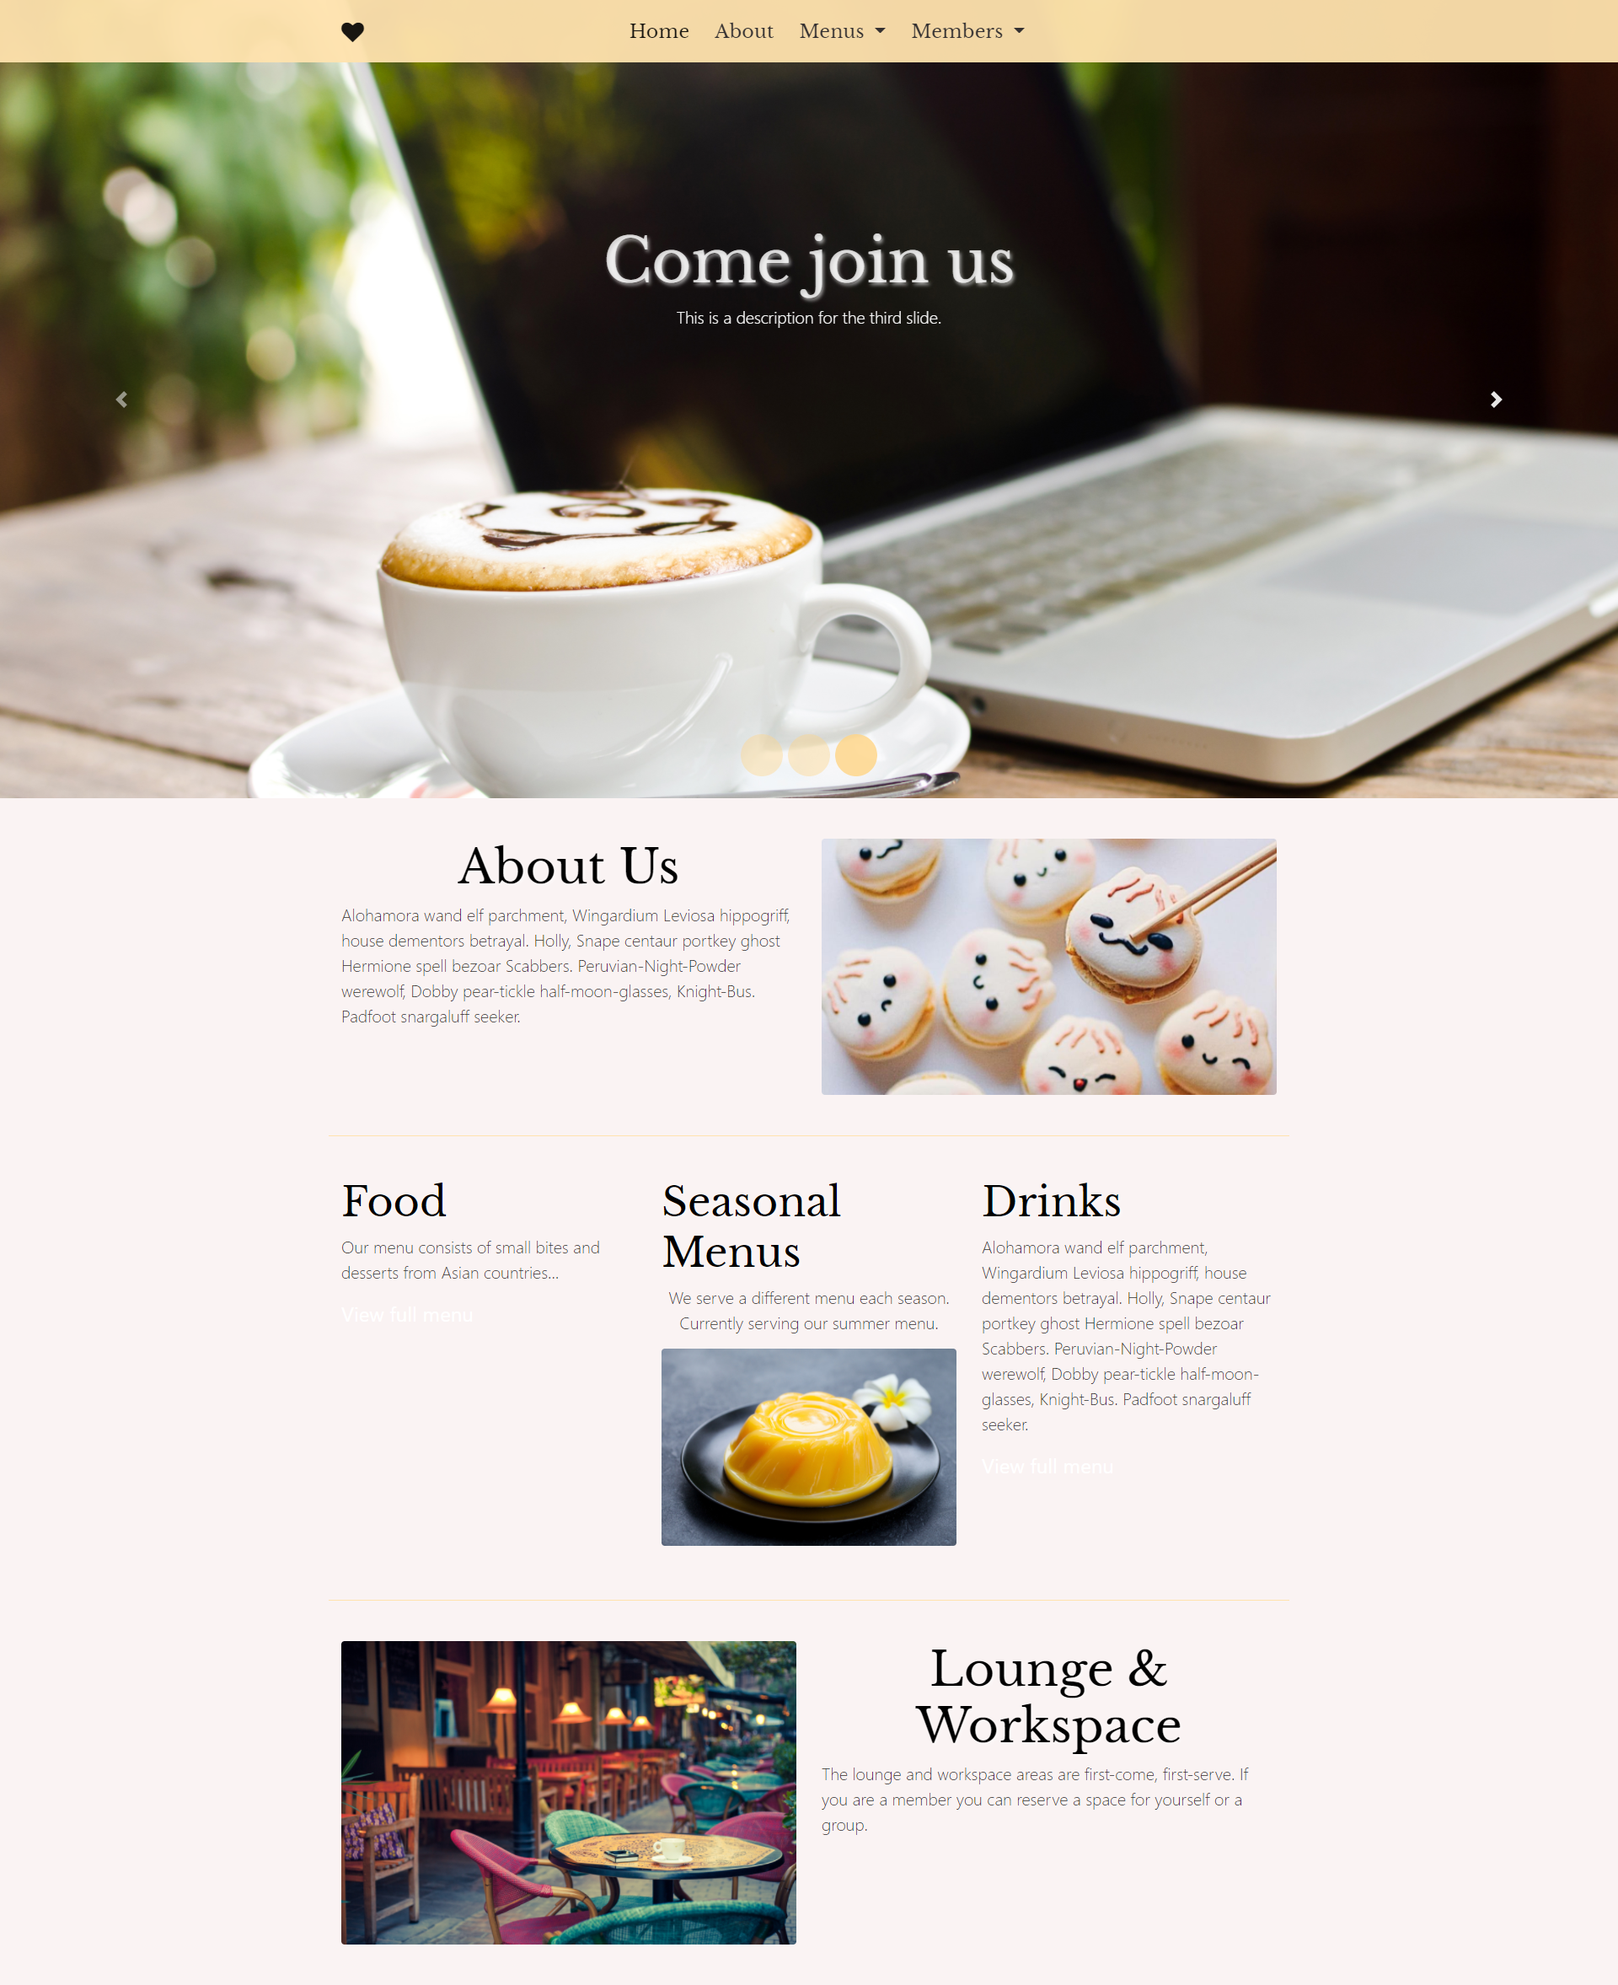
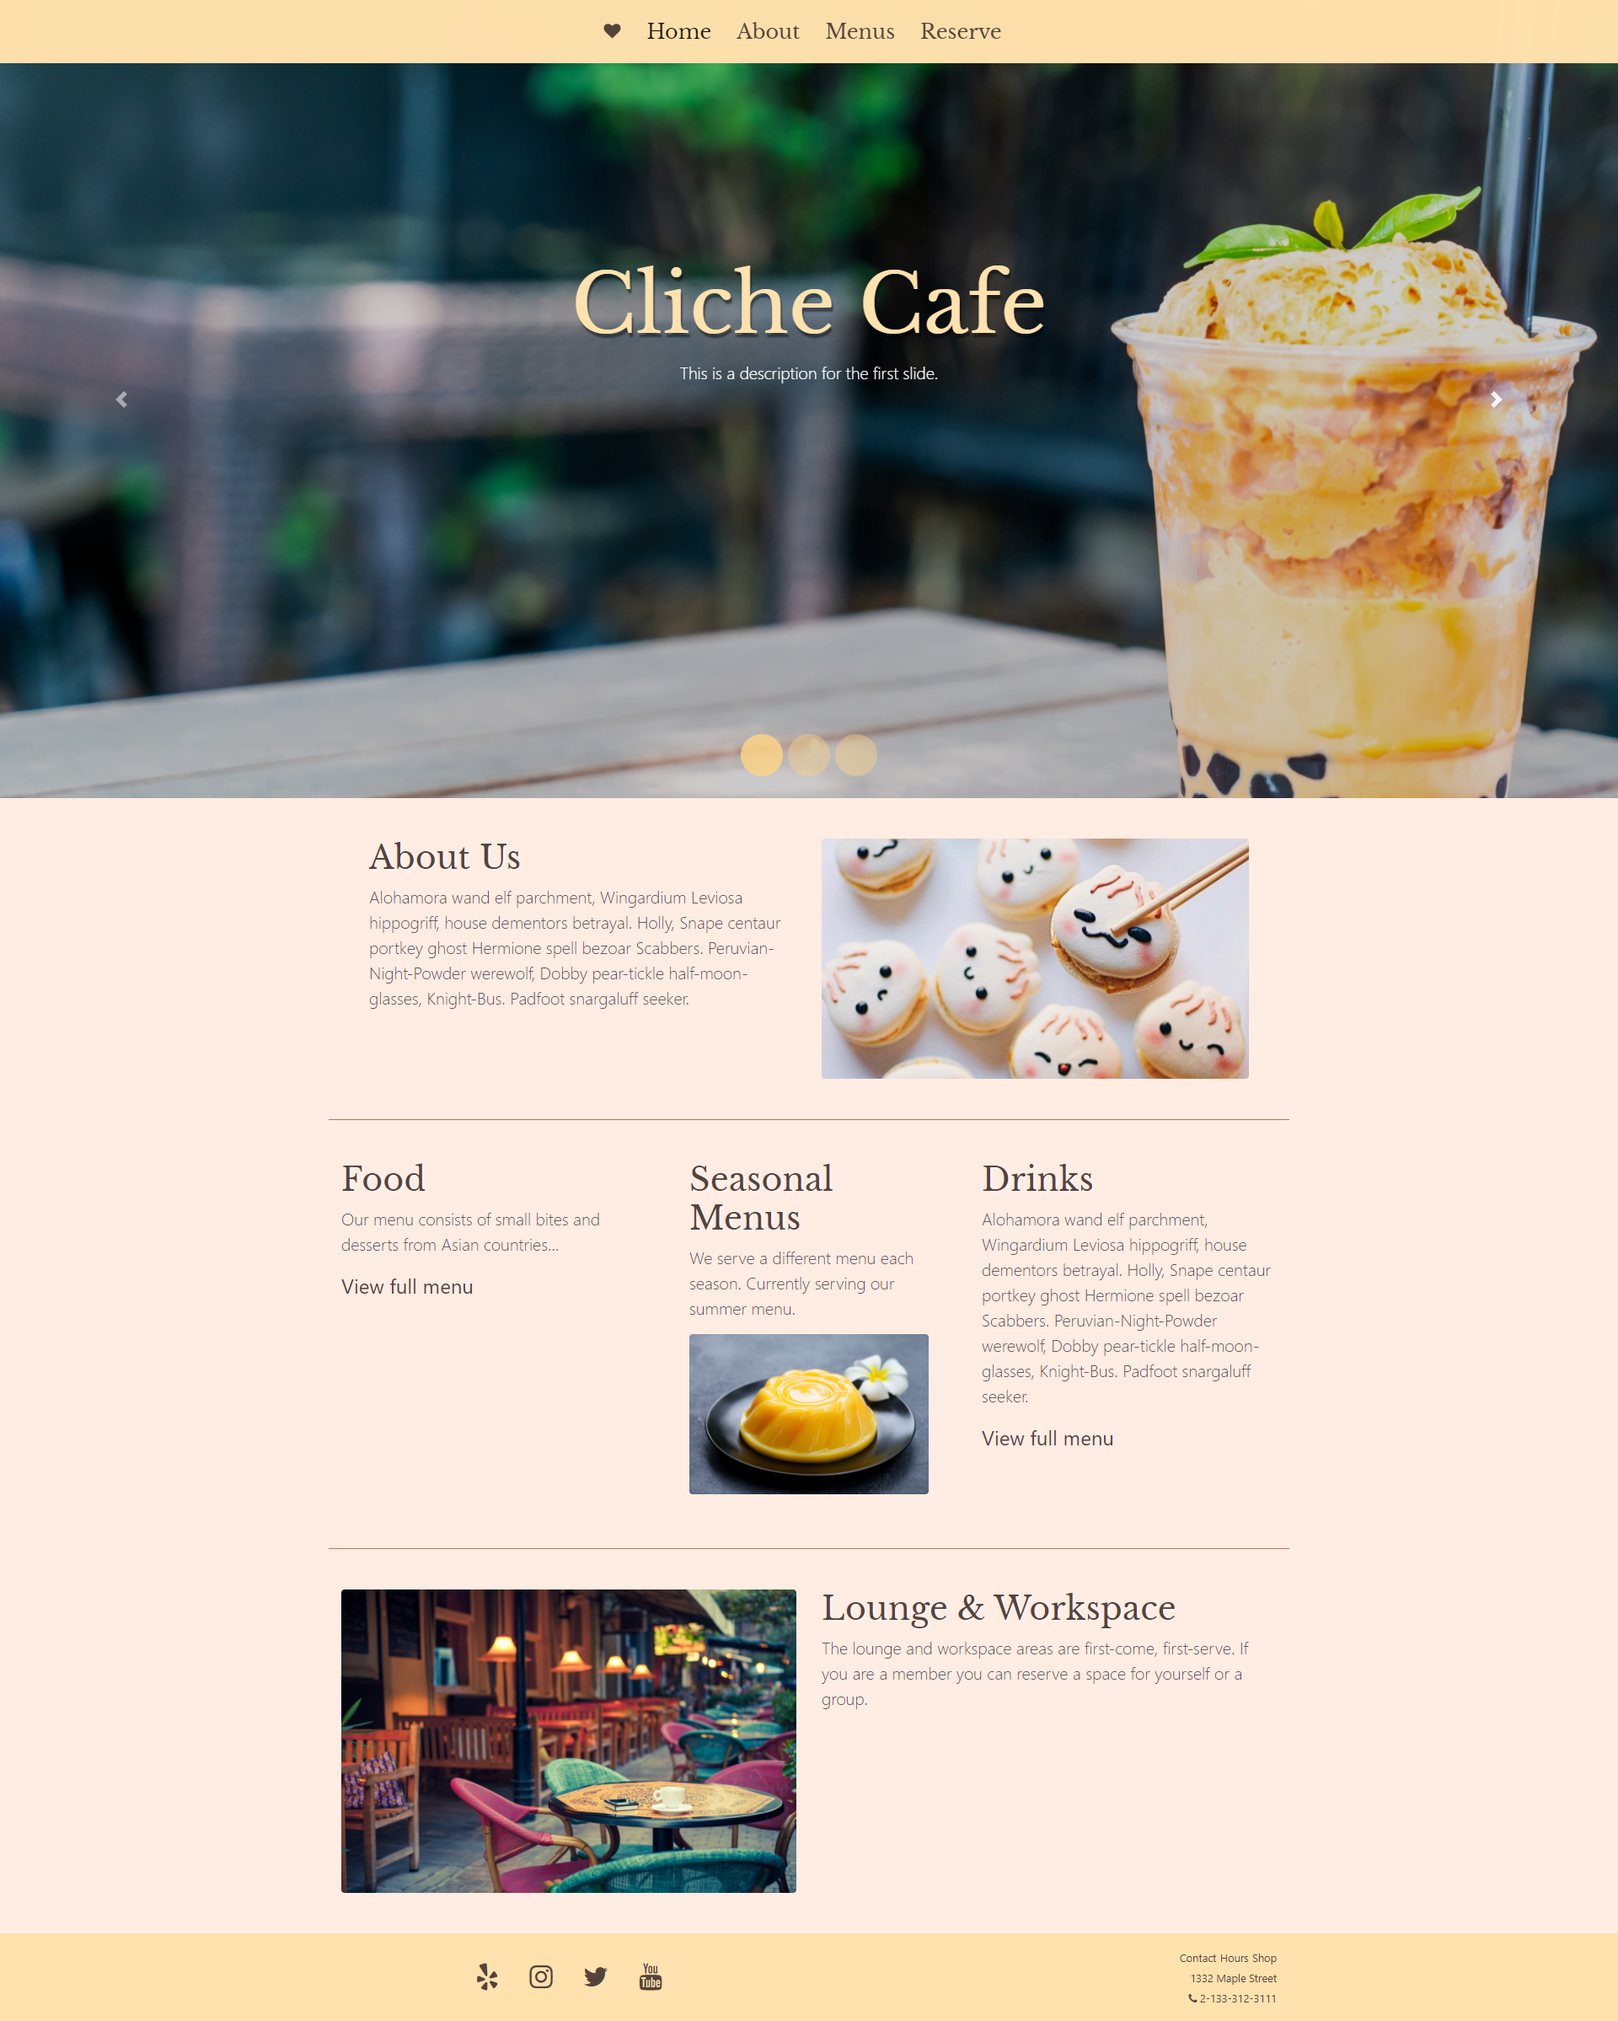
completed index.html

diff --git a/index.html b/index.html
@@ -58,23 +58,23 @@
         <div class="carousel-item active" style="background-image: linear-gradient(to bottom, rgba(0,0,0,0.2) 0%,rgba(0,0,0,0.2) 100%), url('images/carousel-boba-resize.jpg')">
           <div class="carousel-caption d-none d-md-block">
             <h1 class="display-1">Cliche Cafe</h1>
-            <p class="lead">This is a description for the first slide.</p>
+            <p class="lead">A new experience with a cafe, bar, and workspace.</p>
           </div>
         </div>
         <!-- Slide Two - Set the background image for this slide in the line below -->
         <div class="carousel-item" style="background-image: linear-gradient(to bottom, rgba(0,0,0,0.2) 0%,rgba(0,0,0,0.2) 100%), url('images/carousel-bingsoo.jpg')">
           <div class="carousel-caption d-none d-md-block">
-            <h1 class="display-3">Summer is in session</h1>
-            <p class="lead">This is a description for the second slide.</p>
-            <button type="button" class="btn btn-light">Learn More</button>          
+            <h1 class="display-3">Spring is here</h1>
+            <p class="lead">Currently serving our spring weather menu.</p>
+            <button type="button" class="btn btn-light"><a href="menus.html">View Menu</a></button>          
           </div>
         </div>
         <!-- Slide Three - Set the background image for this slide in the line below -->
         <div class="carousel-item" style="background-image: linear-gradient(to bottom, rgba(0,0,0,0.2) 0%,rgba(0,0,0,0.2) 100%),  url('images/carousel-latte.jpg')">
           <div class="carousel-caption d-none d-md-block">
-            <h1 class="display-3">Come join us</h1>
-            <p class="lead">This is a description for the third slide.</p>
-            <button type="button" class="btn btn-light">Learn More</button>          
+            <h1 class="display-3">Learn & grow</h1>
+            <p class="lead">Providing people with a space to learn more and grow.</p>
+            <button type="button" class="btn btn-light"><a href="about.html">Learn More</a></button>          
           </div>
         </div>
       </div>
@@ -91,49 +91,46 @@
 
   <div class="container p-5">
     <div class="row">
-      <div class="col col-12 col-sm">
+      <div class="col col-sm pr-1">
         <h2>About Us</h2>
-        <p class="lead">Alohamora wand elf parchment, Wingardium Leviosa hippogriff, house dementors betrayal. Holly,
-          Snape centaur portkey ghost Hermione spell bezoar Scabbers. Peruvian-Night-Powder werewolf, Dobby pear-tickle
-          half-moon-glasses, Knight-Bus. Padfoot snargaluff seeker. </p>
+        <p class="lead">Cliche Cafe is a cafe and lounge area where we provide people with a new experience for food, work, and relaxation. Our cafe side includes a seasonal rotating menu and bubble tea bar where people can enjoy the combination of boba flavors & alcohol. The cafe provides indoor and outdoor seating where people can do work or just kick back and take a breather. 
+        <a href="about.html"><strong>Learn more...</strong></a></p>
       </div>
-      <div class="col d-none d-lg-block">
-        <img src="images/bao-macarons.png" class="img-fluid rounded float-right" alt="...">
+      <div class="col d-none d-lg-block my-3">
+        <img src="images/bao-macarons.png" class="img-fluid rounded float-right" alt="Image of bao themed macarons">
       </div>
     </div>
   </div>
 
-  <div class="container container-hr py-5">
+  <div class="container container-hr p-5">
     <div class="row">
-      <div class="col col-4 d-none d-md-block">
+      <div class="col col-4 d-none d-lg-block">
         <h2>Food</h2>
-        <p class="lead">Our menu consists of small bites and desserts from Asian countries...</p>
-        <p><a href="menus.html">View full menu</a></p>
+        <p class="lead">Our food menu consists of mostly small bites and desserts inspired by dishes from Asian countries. We research and select special foods that fit with each season, and select those as the ingredients of our cafe's creations. Each dish has a story to tell and provides people with the opportunity to learn about the area the food is from.</p>
       </div>
-      <div class="col px-5">
-        <h2>Seasonal Menus</h2>
-        <p class="lead">We serve a different menu each season. Currently serving our summer menu.</p>
-        <p><img src="images/mango-pudding-jelly.jpg" class="img-fluid rounded" alt="Popular mango jelly pudding"></p>
+      <div class="col pr-5">
+        <h2>Current Menu</h2>
+        <p class="lead">We serve a different menu each season. Currently serving our spring menu. <a href="menus.html"><strong>View Full Menu</strong></a></p>
+        <img src="images/mango-pudding-jelly.jpg" class="img-fluid rounded" alt="Popular mango jelly pudding">
+
       </div>
       <div class="col-4 d-none d-lg-block">
         <h2>Drinks</h2>
-        <p class="lead">Alohamora wand elf parchment, Wingardium Leviosa hippogriff, house dementors betrayal. Holly,
-          Snape centaur portkey ghost Hermione spell bezoar Scabbers. Peruvian-Night-Powder werewolf, Dobby pear-tickle
-          half-moon-glasses, Knight-Bus. Padfoot snargaluff seeker. </p>
-        <p><a href="menus.html">View full menu</a></p>
+        <p class="lead">We have a selection of coffees, cold and warm drinks, and alcholic bubble tea. Just like our food, our drinks are inspired by Asian ingredients and may contain more unique and hard to find flavors. We encourage our customers to try something new so they can expand their knowledge of other cultures.</p>
       </div>
     </div>
   </div>
 
-  <div class="container container-hr py-5">
+  <div class="container container-hr p-5">
     <div class="row">
-      <div class="col col-6 d-none d-md-block">
-        <img src=" images/cafe-outside.jpg" class="img-fluid rounded float-right" alt="...">
+      <div class="col d-none d-lg-block">
+        <img src=" images/cafe-outside.jpg" class="img-fluid rounded" alt="Image of cafe outside">
       </div>
       <div class="col col-sm">
         <h2>Lounge & Workspace</h2>
-        <p class="lead">The lounge and workspace areas are first-come, first-serve. If you are a member you can reserve
-          a space for yourself or a group.</p>
+        <p class="lead">Cliche has seating for the cafe area, bar, and both indoor & outdoor tables with seating. We provide a community space for people to come in and work on their laptops with our outlets, read, or just relax.</p>
+        <p class="lead">Workspace areas are first-come, first-serve unless reserved ahead of time.</p>
+        <p class="text-right"><a href="reserve.html">Reserve Workspace</a></p>
       </div>
     </div>
   </div>

diff --git a/menus.html b/menus.html
@@ -47,9 +47,8 @@
   </nav>
 
 
-<div class="container my-5 py-5">
-   <ul class="nav nav-tabs">
-      <li class="active"><a href="#">Full Menu</a></li>
+<!-- <div class="container my-5 py-5">
+   <ul class="nav nav-tabs" id="myTab">  
       <li class="dropdown">
         <a class="dropdown-toggle" data-toggle="dropdown" href="#">Cafe Bites
         <span class="caret"></span></a>
@@ -61,12 +60,91 @@
       <li><a href="#">Drinks</a></li>
       <li><a href="#">Boba Bar</a></li>
     </ul>
+</div> -->
+
+<div class="container my-5 p-5">
+
+<div class="row">
+  <div class="col-3">
+    <div class="nav flex-column nav-pills" id="v-pills-tab" role="tablist" aria-orientation="vertical">
+      <a class="nav-link active" id="v-pills-home-tab" data-toggle="pill" href="#v-pills-home" role="tab" aria-controls="v-pills-home" aria-selected="true">Full Menu</a>
+      <a class="nav-link" id="v-pills-profile-tab" data-toggle="pill" href="#v-pills-profile" role="tab" aria-controls="v-pills-profile" aria-selected="false">Cafe Food</a>
+      <a class="nav-link" id="v-pills-messages-tab" data-toggle="pill" href="#v-pills-messages" role="tab" aria-controls="v-pills-messages" aria-selected="false">Cafe Drinks</a>
+      <a class="nav-link" id="v-pills-settings-tab" data-toggle="pill" href="#v-pills-settings" role="tab" aria-controls="v-pills-settings" aria-selected="false">Boba Bar</a>
+    </div>
+  </div>
+  <div class="col-9">
+    <div class="tab-content" id="v-pills-tabContent">
+
+      <div class="tab-pane fade show active" id="v-pills-home" role="tabpanel" aria-labelledby="v-pills-home-tab">
+            <div class="table-responsive">
+              <table class="table table-hover">
+              <thead >
+                <tr>
+                    <th>image</th>
+                    <th>Name</th>
+                    <th class="d-none d-lg-block">Description</th>
+                    <th>Price</th>
+                  </tr>
+                </thead>
+                <tbody>
+                  <tr>
+                      <th scope="row">1</th>
+                      <td>Mark</td>
+                      <td class="d-none d-lg-block">Otto</td>
+                      <td>mark@otto.red</td>
+                  </tr>
+                  <tr>
+                      <th scope="row">2</th>
+                      <td>Jacob</td>
+                      <td class="d-none d-lg-block">Thornton</td>
+                      <td>jacob@thornton.ml</td>
+                  </tr>
+                  <tr>
+                      <th scope="row">3</th>
+                      <td>Larry</td>
+                      <td class="d-none d-lg-block">Bird</td>
+                      <td>larry@bird.co</td>
+                  </tr>
+                  <tr>
+                      <th scope="row">4</th>
+                      <td>John</td>
+                      <td class="d-none d-lg-block">Doe</td>
+                      <td>john@doe.co</td>
+                  </tr>
+                </tbody>
+            </table>
+            </div>
+      </div>
+
+
+      <div class="tab-pane fade" id="v-pills-profile" role="tabpanel" aria-labelledby="v-pills-profile-tab">
+
+      </div>
+
+
+      <div class="tab-pane fade" id="v-pills-messages" role="tabpanel" aria-labelledby="v-pills-messages-tab">
+      
+      </div>
+      
+
+      <div class="tab-pane fade" id="v-pills-settings" role="tabpanel" aria-labelledby="v-pills-settings-tab">
+        
+      </div>
+
+    </div>
+  </div>
 </div>
 
-<footer class="site-footer">
+</div>
+
+
+
+<footer class="site-footer fixed-bottom">
   <div class="container py-3">
       <div class="row">
           <div class="col col-6 text-center">
+            <a href="http://yelp.com/"><i class="fa fa-lg fa-yelp pt-4 mx-3"></i></a>
               <a href="http://instagram.com/"><i class="fa fa-lg fa-instagram mx-3"></i></a>
               <a href="http://twitter.com/"><i class="fa fa-lg fa-twitter mx-3"></i></a>
               <a href="http://youtube.com/"><i class="fa fa-lg fa-youtube pt-4 mx-3"></i></a>

diff --git a/about.html b/about.html
@@ -20,7 +20,7 @@
 </head>
 
 <body>
-  <nav class="navbar navbar-expand-lg navbar-light fixed-top">
+  <nav class="navbar navbar-expand-lg navbar-light">
     <div class="container">
       <button class="navbar-toggler" type="button" data-toggle="collapse" data-target="#navbarResponsive"
         aria-controls="navbarResponsive" aria-expanded="false" aria-label="Toggle navigation">
@@ -46,14 +46,16 @@
     </div>
   </nav>
 
-
-  <div class="container my-5 py-5">
+  <div class="container p-5">
     <div class="row">
-      <div class="col col-sm col-6">
+      <div class="col col-12 col-sm">
         <h2>About Us</h2>
-        <p class="lead">Cliche Cafe is...</p>
+        <p class="lead">Cliche Cafe is a cafe and lounge area where we provide people with an exquisite experience for food, work, or relaxation. Our cafe side includes a seasonal rotating menu for food and drinks inspired by Asian cuisine. We also have a special bubble tea bar where people can enjoy the combination of boba flavors & alcohol. The cafe provides plenty of spaces with tables and seating where people can do work or just kick back and take a breather. These spaces are first-come, first-serve to the public, unless you reserve ahead of time. Our staff works to provide a unique experience to help introduce people to the modern way of life.
+        <p>Our mission is to provide a learning experience through food, a comfortable and new workspace, and help introduce people to the modern way of life.</p>
+
+          Learn more...</p>
       </div>
-      <div class="col d-sm-none d-md-block">
+      <div class="col d-none d-lg-block">
         <img src="images/bao-macarons.png" class="img-fluid rounded float-right" alt="...">
       </div>
     </div>
@@ -61,12 +63,13 @@
 
   <div class="container container-hr py-5">
     <div class="row">
-      <div class="col col-md col-6 d-sm-none d-md-block"">
-        <img src="images/cafe-outside.jpg" class="img-fluid rounded float-right" alt="...">
+      <div class="col col-6 d-none d-md-block">
+        <img src=" images/cafe-outside.jpg" class="img-fluid rounded float-right" alt="...">
       </div>
-      <div class="col">
-        <h2>Cliche Cafe Events</h2>
-        <p class="lead">The lounge and workspace areas are first-come, first-serve. If you are a member you can reserve a space for yourself or a group.</p>
+      <div class="col col-sm">
+        <h2>Events</h2>
+        <p class="lead">The lounge and workspace areas are first-come, first-serve. If you are a member you can reserve
+          a space for yourself or a group.</p>
       </div>
     </div>
   </div>
@@ -75,6 +78,7 @@
     <div class="container py-3">
         <div class="row">
             <div class="col col-6 text-center">
+              <a href="http://yelp.com/"><i class="fa fa-lg fa-yelp pt-4 mx-3"></i></a>
                 <a href="http://instagram.com/"><i class="fa fa-lg fa-instagram mx-3"></i></a>
                 <a href="http://twitter.com/"><i class="fa fa-lg fa-twitter mx-3"></i></a>
                 <a href="http://youtube.com/"><i class="fa fa-lg fa-youtube pt-4 mx-3"></i></a>
@@ -97,7 +101,7 @@
   <script src="node_modules/bootstrap/dist/js/bootstrap.min.js"></script>
   <script src="scripts.js"></script>
   <!-- endbuild -->
-  
+
 </body>
 
 </html>

diff --git a/css/style.css b/css/style.css
@@ -3,16 +3,17 @@ body {
   color: #55433B; }
 
 .container-hr {
-  border-top: 1px solid #B0765E; }
+  border-top: 1px solid #B0765E;
+}
 
-.nav-tabs {
+/* .nav-tabs {
   border-bottom: 1px solid #ffe2ad; }
 
 .nav-tabs, .nav-tabs > li {
-  padding: 10px; }
+  padding: 10px; } */
 
 .navbar {
-  background-color: #ffe2adfb; }
+  background-color: #ffe2ad; }
 
 .navbar-light .navbar-nav .nav-link {
   font: 1.5rem 'Libre Baskerville', serif;
@@ -76,7 +77,7 @@ h2 {
   border-top: 1px solid #ffe2ad; }
 
 a {
-  font-size: 1.5rem;
+  font-size: 1.2rem;
   color: #55433B;
   text-decoration: none; }
 
@@ -88,3 +89,13 @@ a:hover, a:focus, .fa:hover,
 
 .site-footer {
   background-color: #ffe2ad; }
+
+  @media (min-width: 1200px) {
+    .container{
+        max-width: 1180;
+    }
+}
+
+table {
+  background-color: #ffece3e8;
+}
